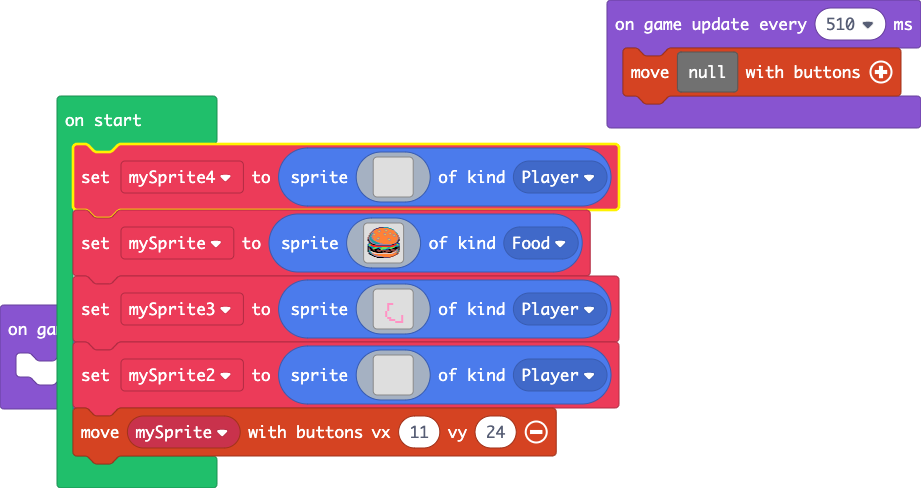
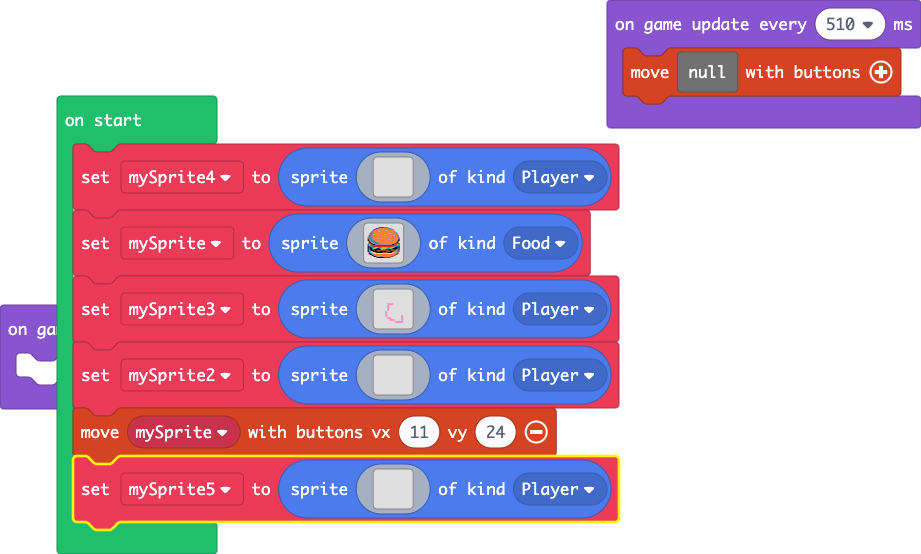
Update main.blocks, main.ts

diff --git a/main.ts b/main.ts
@@ -87,6 +87,24 @@ let mySprite2 = sprites.create(img`
 . . . . . . . . . . . . . . . . 
 `, SpriteKind.Player)
 controller.moveSprite(mySprite, 11, 24)
+let mySprite5 = sprites.create(img`
+. . . . . . . . . . . . . . . . 
+. . . . . . . . . . . . . . . . 
+. . . . . . . . . . . . . . . . 
+. . . . . . . . . . . . . . . . 
+. . . . . . . . . . . . . . . . 
+. . . . . . . . . . . . . . . . 
+. . . . . . . . . . . . . . . . 
+. . . . . . . . . . . . . . . . 
+. . . . . . . . . . . . . . . . 
+. . . . . . . . . . . . . . . . 
+. . . . . . . . . . . . . . . . 
+. . . . . . . . . . . . . . . . 
+. . . . . . . . . . . . . . . . 
+. . . . . . . . . . . . . . . . 
+. . . . . . . . . . . . . . . . 
+. . . . . . . . . . . . . . . . 
+`, SpriteKind.Player)
 game.onUpdateInterval(510, function () {
     controller.moveSprite(null)
 })
